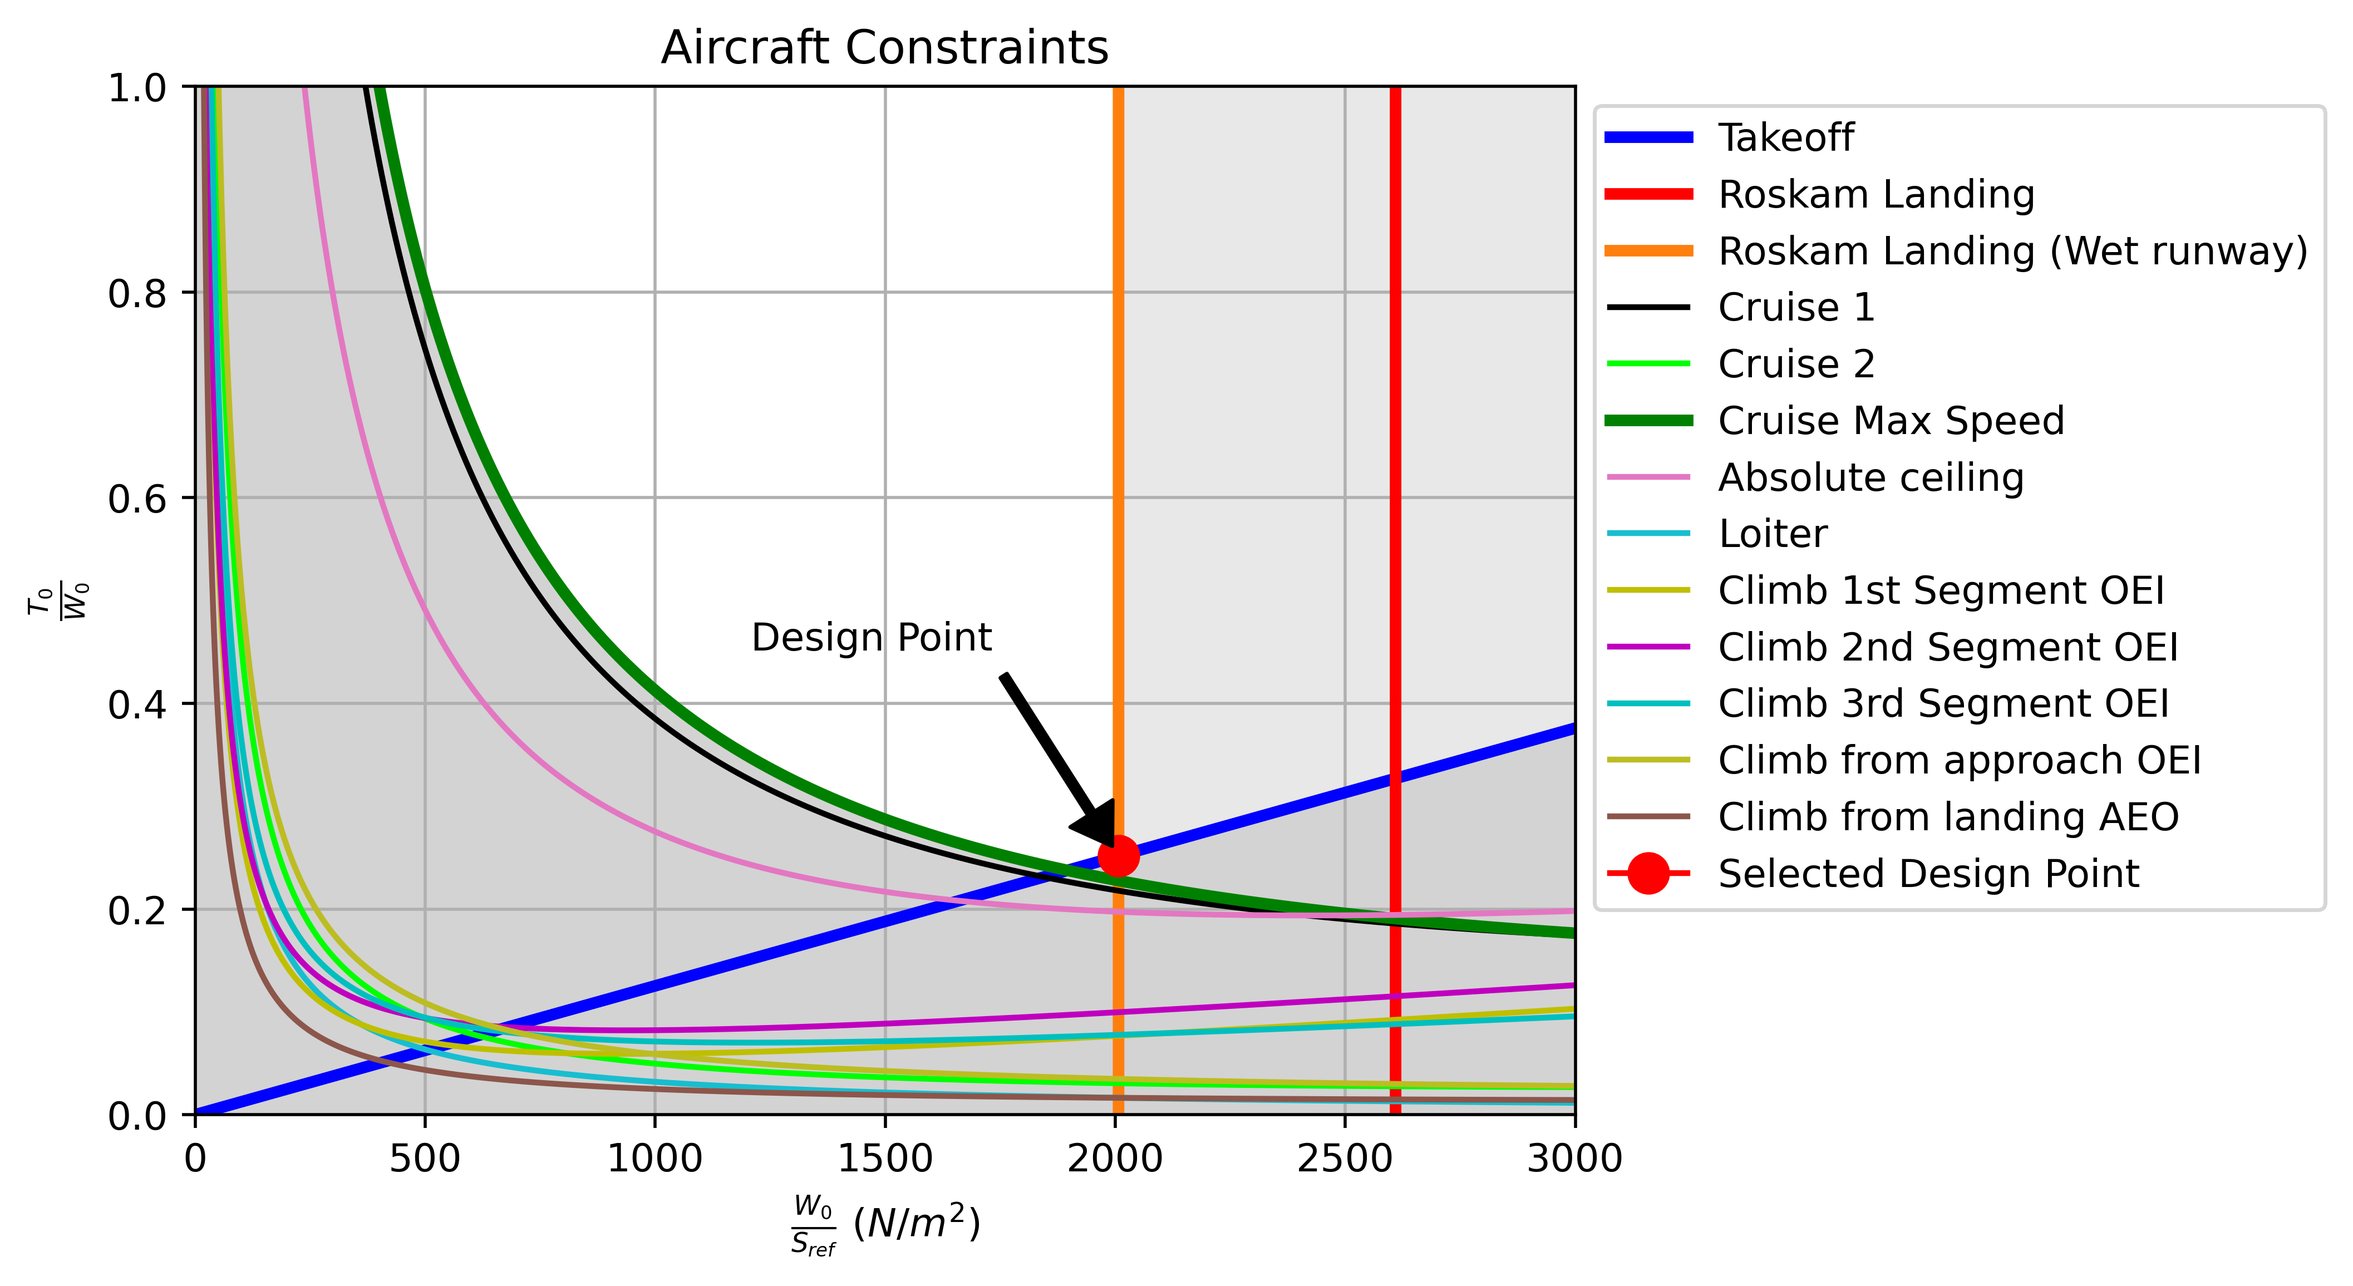
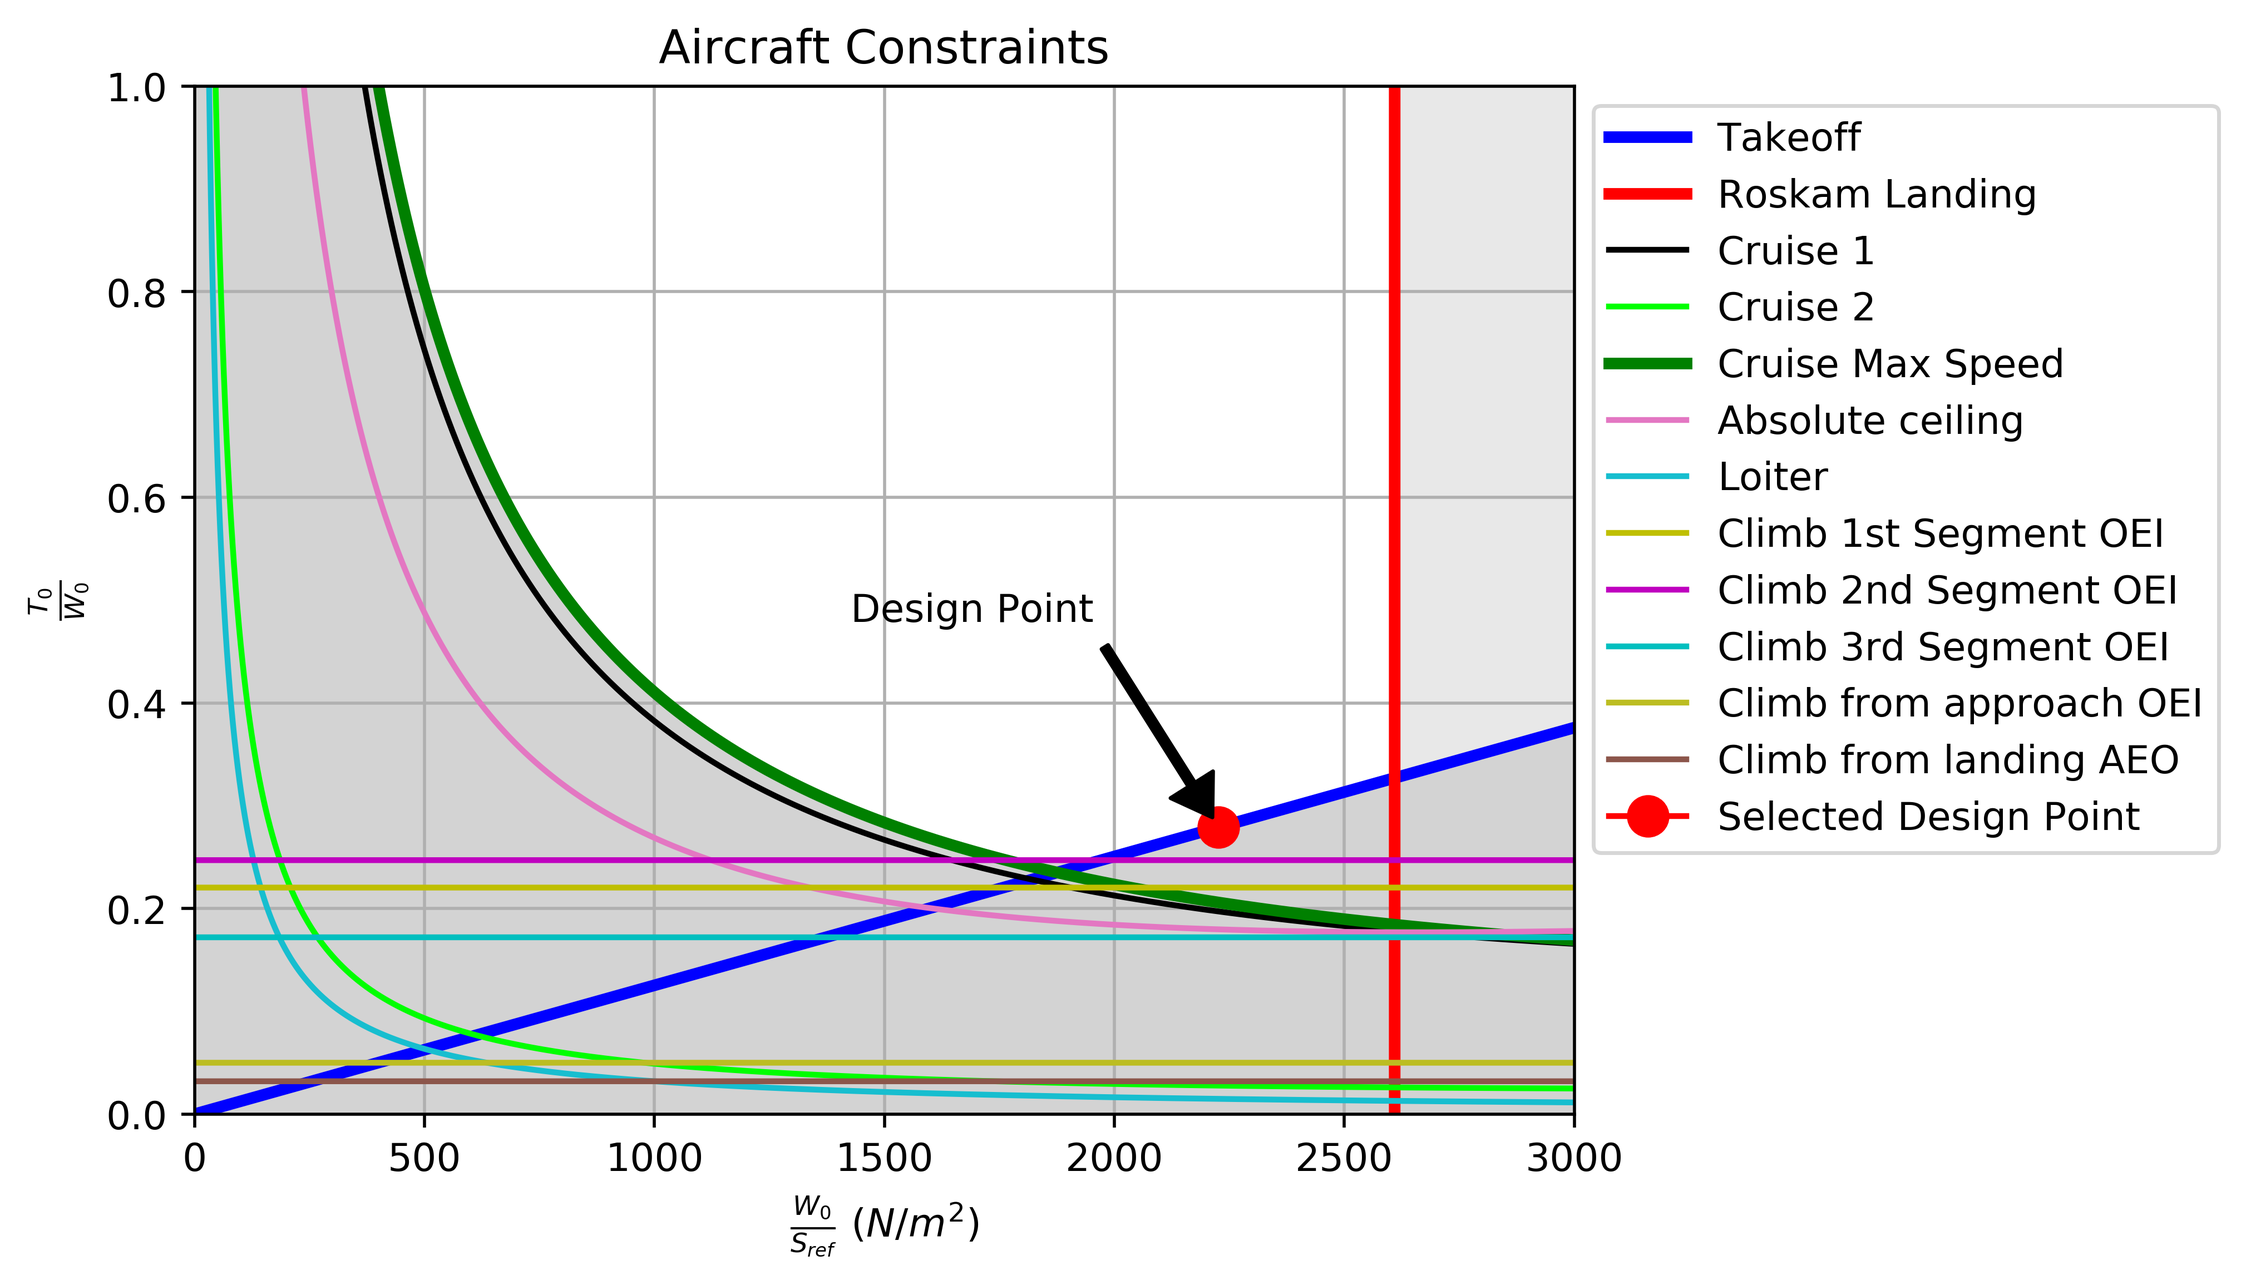
winglets effect + weight piechart + fixed constraint diagram

Changed region(s): [[0.0312, 0.0, 0.9988, 0.9974], [0.9676, 0.6545, 0.9988, 0.6857], [0.3745, 0.2182, 0.4057, 0.2494]]

diff --git a/pyavd/libraries/Classes/Constraints.py b/pyavd/libraries/Classes/Constraints.py
@@ -1,3 +1,4 @@
+from numpy.lib.shape_base import column_stack
 from .. import ureg as u
 from .. import sealevel
 from ..Tools import Optimiser, mach_to_speed
@@ -16,7 +17,7 @@ class Constraints(Config, Optimiser):
     ---> Handles Airworthiness regulations (FAR25 for now) and performance constraints defined in Aircraft.Spec()
     '''
 
-    def __init__(constraint, FieldLength, max_Vstall, Cl_max, Cl_clean):
+    def __init__(constraint, FieldLength, max_Vstall, Cl_max, Cl_clean, dp_factor):
 
         constraint.FL = FieldLength
         constraint.max_Vstall = max_Vstall
@@ -28,13 +29,15 @@ class Constraints(Config, Optimiser):
         # X-axis of constraint graph
         constraint.WS = np.array(np.linspace(1, 3000, 10000)) * u.Pa
 
+        constraint.dp_factor = dp_factor
 
         # Run constraint functions
         constraint.takeoff()
         constraint.landingRaymer(250 * u.meters, 1)
         constraint.landingRoskam()
-        constraint.designPoint()
 
+        constraint.calculate_constraints()
+        constraint.designPoint()
         constraint.plot_constraints()
 
 
@@ -152,26 +155,44 @@ class Constraints(Config, Optimiser):
 
 
 
-
     def designPoint(constraint):
         '''Calculates the design point for the aircraft based on constraints provided'''
+        
+        x2 = constraint.WS[-1].magnitude
+        y2 = constraint.TW_takeoff[-1].magnitude
 
-        x = constraint.WS[-1].magnitude
-        y = constraint.TW_takeoff[-1].magnitude
+        takeoff_slope = y2/x2
+        
+        for index, value in enumerate(constraint.WS):
+            
+            curr_constraints = [constraint.TW_cruise1[index], constraint.TW_cruise2[index],
+                                constraint.TW_cruise_maxSpeed[index], constraint.TW_absCeiling[index],
+                                constraint.TW_climb1[index], constraint.TW_climb2[index],
+                                constraint.TW_climb3[index], constraint.TW_climb4[index],
+                                constraint.TW_climb5[index], constraint.TW_loiter[index]]
 
-        constraint.y_designPoint = y / x * constraint.wingLoadingMax_roskam_wet.magnitude
-        constraint.x_designPoint = constraint.wingLoadingMax_roskam_wet.magnitude
+
+            if ((value.magnitude)*takeoff_slope > max(curr_constraints)):
+                constraint.DP_min_x = value.magnitude
+                constraint.DP_min_y = value.magnitude * takeoff_slope
+                break
+
+        constraint.DP_max_y = takeoff_slope * constraint.wingLoadingMax_roskam.magnitude
+        constraint.DP_max_x = constraint.wingLoadingMax_roskam.magnitude
+
+        constraint.x_designPoint = constraint.DP_min_x + constraint.dp_factor*(constraint.DP_max_x - constraint.DP_min_x) 
+        constraint.y_designPoint = constraint.DP_min_y + constraint.dp_factor*(constraint.DP_max_y - constraint.DP_min_y)
+        
 
 
-    def plot_constraints(constraint):
-
+    def calculate_constraints(constraint):
         WS = constraint.WS
 
         # Cruise
-        TW_cruise1 = constraint.thrustMatching(0 * u.m / u.s, mach_to_speed((40000 * u.ft).to(u.m).magnitude, 0.75), 0.98, 40000 * u.ft)
+        constraint.TW_cruise1 = constraint.thrustMatching(0 * u.m / u.s, mach_to_speed((40000 * u.ft).to(u.m).magnitude, 0.75), 0.98, 40000 * u.ft)
         constraint.TW_cruise_maxSpeed = constraint.thrustMatching(0 * u.m / u.s, mach_to_speed((40000 * u.ft).to(u.m).magnitude, 0.78), 0.94, 40000 * u.ft)
-        TW_absCeiling = constraint.thrustMatching(0 * u.m / u.s, mach_to_speed((45000 * u.ft).to(u.m).magnitude, 0.6), 0.94, 45000 * u.ft)
-        TW_cruise2 = constraint.thrustMatching(0 * u.m / u.s, 200 * u.kts, 0.5, 26000 * u.ft)
+        constraint.TW_absCeiling = constraint.thrustMatching(0 * u.m / u.s, mach_to_speed((45000 * u.ft).to(u.m).magnitude, 0.6), 0.94, 45000 * u.ft)
+        constraint.TW_cruise2 = constraint.thrustMatching(0 * u.m / u.s, 200 * u.kts, 0.5, 26000 * u.ft)
         
         # # Climb
         # TW_climb1 = constraint.climb(0.1, 1.1 * constraint.V_stall, 0.98) * 2.0
@@ -181,42 +202,43 @@ class Constraints(Config, Optimiser):
         # TW_climb5 = constraint.climb(3.2, 1.3 * constraint.V_stall, 0.3)
 
         ## New Climb
-        TW_climb1 = constraint.climb(0.1,1.1 * constraint.V_stall,0.04,0.95) * 2.0
-        TW_climb2 = constraint.climb(2.4, 1.1 * constraint.V_stall,0.02,0.95) * 2.0
-        TW_climb3 = constraint.climb(1.2, 1.25 * constraint.V_stall, 0, 1) * 2.0
-        TW_climb4 = constraint.go_around_climb(2.1, 1.5 * constraint.V_stall,0.05,0.9,0.3) * 2.0
-        TW_climb5 = constraint.go_around_climb(3.2, 1.3 * constraint.V_stall, 0.07,0.9,0.3)
+        constraint.TW_climb1 = constraint.climb(0.1,1.1 * constraint.V_stall,0.04,0.95) * 2.0
+        constraint.TW_climb2 = constraint.climb(2.4, 1.1 * constraint.V_stall,0.02,0.95) * 2.0
+        constraint.TW_climb3 = constraint.climb(1.2, 1.25 * constraint.V_stall, 0, 1) * 2.0
+        constraint.TW_climb4 = constraint.go_around_climb(2.1, 1.5 * constraint.V_stall,0.05,0.9,0.3) * 2.0
+        constraint.TW_climb5 = constraint.go_around_climb(3.2, 1.3 * constraint.V_stall, 0.07,0.9,0.3)
 
         
         # Loiter
-        TW_loiter = constraint.thrustMatching(0 * u.m / u.s, 150 * u.kts, 0.2, 5000 * u.ft)
+        constraint.TW_loiter = constraint.thrustMatching(0 * u.m / u.s, 150 * u.kts, 0.2, 5000 * u.ft)
 
         # Landing
-        TW_line = np.linspace(0, 1, 10000)
-        WS_maxLanding_Raymer = np.array(np.ones(10000)) * constraint.wingLoadingMax_raymer
-        WS_maxLandingRoskam = np.array(np.ones(10000)) * constraint.wingLoadingMax_roskam
-        WS_maxLandingRoskamWet = np.array(np.ones(10000)) * constraint.wingLoadingMax_roskam_wet
+        constraint.TW_line = np.linspace(0, 1, 10000)
+        constraint.WS_maxLanding_Raymer = np.array(np.ones(10000)) * constraint.wingLoadingMax_raymer
+        constraint.WS_maxLandingRoskam = np.array(np.ones(10000)) * constraint.wingLoadingMax_roskam
+        constraint.WS_maxLandingRoskamWet = np.array(np.ones(10000)) * constraint.wingLoadingMax_roskam_wet
 
+
+    def plot_constraints(constraint):
     
-
         constraint.fig_constraint = plt.figure()
 
         # Plot the functions
-        plt.plot(WS, constraint.TW_takeoff, 'b', label='Takeoff', linewidth=3)
-        plt.plot(WS_maxLandingRoskam,TW_line, 'r', label='Roskam Landing', linewidth=3)
-        plt.plot(WS_maxLandingRoskamWet , TW_line, 'tab:orange', label='Roskam Landing (Wet runway)', linewidth=3) #wet runway
-        # plt.plot(WS_maxLanding_Raymer,TW_line, 'r--', label='Raymer Landing', linewidth=0.5)
-        plt.plot(WS,TW_cruise1,'k',label='Cruise 1')
-        plt.plot(WS,TW_cruise2,'lime',label='Cruise 2')
-        plt.plot(WS,constraint.TW_cruise_maxSpeed,'g',label='Cruise Max Speed', linewidth=3)
-        plt.plot(WS,TW_absCeiling,'tab:pink',label='Absolute ceiling')
-        plt.plot(WS,TW_loiter,'tab:cyan',label='Loiter')
+        plt.plot(constraint.WS, constraint.TW_takeoff, 'b', label='Takeoff', linewidth=3)
+        plt.plot(constraint.WS_maxLandingRoskam,constraint.TW_line, 'r', label='Roskam Landing', linewidth=3)
+        #plt.plot(WS_maxLandingRoskamWet , TW_line, 'tab:orange', label='Roskam Landing (Wet runway)', linewidth=3) #wet runway
+        #plt.plot(WS_maxLanding_Raymer,TW_line, 'r--', label='Raymer Landing', linewidth=0.5)
+        plt.plot(constraint.WS,constraint.TW_cruise1,'k',label='Cruise 1')
+        plt.plot(constraint.WS,constraint.TW_cruise2,'lime',label='Cruise 2')
+        plt.plot(constraint.WS,constraint.TW_cruise_maxSpeed,'g',label='Cruise Max Speed', linewidth=3)
+        plt.plot(constraint.WS,constraint.TW_absCeiling,'tab:pink',label='Absolute ceiling')
+        plt.plot(constraint.WS,constraint.TW_loiter,'tab:cyan',label='Loiter')
 
-        plt.plot(WS,TW_climb1,'y',label='Climb 1st Segment OEI')
-        plt.plot(WS,TW_climb2,'m',label='Climb 2nd Segment OEI')
-        plt.plot(WS,TW_climb3,'c',label='Climb 3rd Segment OEI')
-        plt.plot(WS,TW_climb4,'tab:olive',label='Climb from approach OEI')
-        plt.plot(WS,TW_climb5,'tab:brown',label='Climb from landing AEO')
+        plt.plot(constraint.WS,constraint.TW_climb1,'y',label='Climb 1st Segment OEI')
+        plt.plot(constraint.WS,constraint.TW_climb2,'m',label='Climb 2nd Segment OEI')
+        plt.plot(constraint.WS,constraint.TW_climb3,'c',label='Climb 3rd Segment OEI')
+        plt.plot(constraint.WS,constraint.TW_climb4,'tab:olive',label='Climb from approach OEI')
+        plt.plot(constraint.WS,constraint.TW_climb5,'tab:brown',label='Climb from landing AEO')
 
 
         plt.plot(constraint.x_designPoint, constraint.y_designPoint,'r',marker = "o",label='Selected Design Point', markersize=10)
@@ -234,7 +256,15 @@ class Constraints(Config, Optimiser):
         plt.ylim([0, 1])
         plt.xlim([0, 3000])
 
-        plt.fill_between(constraint.WS, constraint.WS * 0, constraint.TW_cruise_maxSpeed, color='lightgrey')
-        plt.fill_between(constraint.WS, constraint.WS * 0, constraint.TW_takeoff, color='lightgrey')
-        plt.fill_between(constraint.WS, WS_maxLandingRoskamWet, 3000 * np.ones(10000), color='lightgrey')
-        plt.axvspan(WS_maxLandingRoskamWet.magnitude[0], 3000, facecolor='lightgrey', alpha=0.5)
+        plt.axvspan(constraint.WS_maxLandingRoskam.magnitude[0], 3000, facecolor='lightgrey', alpha=0.5)
+
+        
+        constraint_list = [constraint.TW_cruise1, constraint.TW_cruise2,
+                            constraint.TW_cruise_maxSpeed, constraint.TW_absCeiling,
+                            constraint.TW_climb1, constraint.TW_climb2,
+                            constraint.TW_climb3, constraint.TW_climb4,
+                            constraint.TW_climb5, constraint.TW_loiter]
+        for const in constraint_list:
+            plt.fill_between(constraint.WS, constraint.WS * 0, const, color='lightgrey')
+
+        plt.fill_between(constraint.WS, constraint.WS * 0, constraint.TW_takeoff , color='lightgrey')

diff --git a/pyavd/main.py b/pyavd/main.py
@@ -29,7 +29,7 @@ import streamlit as st
 from streamlit import session_state as sesh
 import pandas as pd
 import numpy as np
-
+import matplotlib.pyplot as plt
 # Set up the page config
 st.set_page_config(page_title="PyAVD",
                     page_icon="https://ichef.bbci.co.uk/news/976/cpsprodpb/117D1/production/_98633617_mediaitem98633616.jpg",
@@ -96,6 +96,7 @@ with st.sidebar:
     crew = st.number_input("Crew", value=2, min_value=1, max_value=1000)
     sesh.num_iters = st.number_input("Iterations", value=10, min_value=0)
     aspect_ratio = st.number_input("Aspect Ratio", value=7.5, min_value=0.0)
+    winglets_bool = st.checkbox('Winglets?', value=True)
 
   st.header("Design Constraints")
   with st.expander("Click to Expand"):
@@ -107,6 +108,7 @@ with st.sidebar:
 
   st.header("Optimise Design Point")
   with st.expander("Click to Expand", expanded=True):
+    dp_factor = st.number_input("Design Point Percentage", value=0.4)
     st.warning("Still in development!")
     weight = st.slider("Weighting", value=0.0, min_value=0.0, max_value=1.0)
     st.write("Objective Function:")
@@ -122,7 +124,7 @@ if 'flight_profile' not in sesh:
                           ["Descent"],
                           ["Climb"],
                           #["Cruise", {"Speed": 200 * u.kts, "Range": 370.0 * u.km, "Altitude": 26000.0 * u.ft}],
-                          ["Cruise", {"Speed": mach_to_speed((26000 * u.ft).to(u.m).magnitude, 0.5), "Range": 370.0 * u.km, "Altitude": 26000.0 * u.ft}],
+                          ["Cruise", {"Speed": mach_to_speed((26000 * u.ft).to(u.m).magnitude, 0.4), "Range": 370.0 * u.km, "Altitude": 26000.0 * u.ft}],
                           ["Loiter", {"Endurance": 45 * u.min, "Altitude": 5000 * u.ft, "Speed": 150 * u.kts}],
                           ["Descent"],
                           ["Landing"]]
@@ -187,7 +189,7 @@ fp.write(sesh.flight_profile)
 '''
 
 # Creating a new Aircraft instance
-ac = Aircraft(passengers, crew, sesh.flight_profile, aspect_ratio, oswald, field_length, max_Vstall, cl_max, cl_clean, weight, sesh.num_iters)
+ac = Aircraft(passengers, crew, sesh.flight_profile, aspect_ratio, oswald, field_length, max_Vstall, cl_max, cl_clean, weight, dp_factor, winglets_bool, sesh.num_iters)
 
 # Plotting W0 convergence
 st.plotly_chart(ac.fig_W0_histories)
@@ -204,6 +206,21 @@ with st.expander("Fuel Fraction Breakdown"):
   st.dataframe( pd.DataFrame(fuel_frac_2d, index=np.arange(1,len(fuel_frac_2d)+1), columns=['Flight Regime','Fuel Fraction']) )
 
 
+# TODO: use LATEX
+st.write("L/D max = " + str(np.round(ac.LDmax,1)))
+st.write(f"Effective AR = {np.round(ac.aspect_ratio,1)}")
+
+ac_pie_labels = 'Payload', 'Empty', 'Fuel'
+ac_pie_sizes = [(ac.Wcrew.magnitude + ac.Wpax.magnitude + ac.Wpay.magnitude), (ac.W0.magnitude * ac.empty_weight_fraction.magnitude[0]), (ac.W0 * ac.fuel_weight_fraction[0]).magnitude]
+ac_pie_fig, ac_pie_ax = plt.subplots()
+
+ac_pie_ax.pie(ac_pie_sizes, labels=ac_pie_labels, autopct='%1.1f%%', shadow=True, startangle=90)
+ac_pie_ax.axis('equal')
+
+st.pyplot(ac_pie_fig)
+st.write(f"Payload weight fraction = {np.round((1-ac.fuel_weight_fraction - ac.empty_weight_fraction).magnitude,4)[0]}, Empty weight fraction = {np.round(ac.empty_weight_fraction.magnitude,4)[0]}, Fuel weight fraction = {np.round(ac.fuel_weight_fraction.magnitude,4)[0]}")
+st.write(f"Payload weight = {ac.Wcrew.magnitude + ac.Wpax.magnitude + ac.Wpay.magnitude} kg, Empty weight = {np.round(ac.W0.magnitude * ac.empty_weight_fraction.magnitude,2)[0]} kg, Fuel Weight = {np.round(ac.W0 * ac.fuel_weight_fraction.magnitude,2)[0]} kg")
+
 '''
 ## S2 - Constraints
 
@@ -211,3 +228,4 @@ with st.expander("Fuel Fraction Breakdown"):
 
 st.pyplot(ac.fig_constraint, dpi=500)
 ac.fig_constraint.savefig("constraint.png", dpi=500, bbox_inches='tight')
+st.write("Design Point: W/S = " + str(int(np.round(ac.x_designPoint[0]))) + " & T/W = " + str(np.round(ac.y_designPoint[0],2)))

diff --git a/pyavd/libraries/Classes/Aircraft.py b/pyavd/libraries/Classes/Aircraft.py
@@ -22,11 +22,11 @@ class Aircraft(Constraints):
         Redcalculates the gross takeoff weight using Equation S 1.1-3
     '''
 
-    def __init__(ac, pax, crew, mission_profile, AR, e, FieldLength, max_Vstall, Cl_max, Cl_clean, weight, n=10):
+    def __init__(ac, pax, crew, mission_profile, AR, e, FieldLength, max_Vstall, Cl_max, Cl_clean, weight, dp_factor, winglets_bool, n=10):
 
         Spec.__init__(ac, pax, crew, mission_profile)
-        Config.__init__(ac, AR, e)
-        Constraints.__init__(ac, FieldLength, max_Vstall, Cl_max, Cl_clean)
+        Config.__init__(ac, AR, e, winglets_bool)
+        Constraints.__init__(ac, FieldLength, max_Vstall, Cl_max, Cl_clean, dp_factor)
 
         # On first iteration, approximate aircraft W0 from baseline configuration
         Config.W0_approx(ac)
@@ -59,6 +59,8 @@ class Aircraft(Constraints):
             ac.W0 = ac.fixed_weight / (1.0 - ac.WfW0(ac.profile, [ac.SFC_cruise_approx, ac.SFC_loiter_approx], [ac.LD_cruise, ac.LD_loiter]) - ac.WeW0(ac.W0))
             ac.W0_histories.append(ac.W0.magnitude[0])
             
+        
+        ac.empty_weight_fraction = 1 - ac.fuel_weight_fraction - ac.fixed_weight/ac.W0
 
     def plot_histories(ac):
         '''

diff --git a/pyavd/libraries/Classes/Spec.py b/pyavd/libraries/Classes/Spec.py
@@ -36,7 +36,7 @@ class Spec:
     def __init__(spec, pax, crew, mission_profile):
         spec.Wpax = pax * 100 * u.kg
         spec.Wcrew = crew * 100 * u.kg
-        spec.Wpay = pax * 30 * u.kg
+        spec.Wpay = pax * 23 * u.kg
         spec.profile = mission_profile
 
         spec.fixed_weight = spec.Wpax + spec.Wcrew + spec.Wpay
@@ -99,4 +99,5 @@ class Spec:
                 aggregate *= loiter_frac
                 spec.fuel_fracs.append(np.round(loiter_frac.magnitude, 3))
                 
-        return 1.01 * (1 - aggregate)
+        spec.fuel_weight_fraction = 1.01 * (1 - aggregate)
+        return spec.fuel_weight_fraction

diff --git a/pyavd/libraries/Classes/Config.py b/pyavd/libraries/Classes/Config.py
@@ -12,9 +12,14 @@ class Config(Spec, Standards):
     ---> Handles the top-level aircraft configuration, providing empirical lookup tables for required parameters in addition to higher fidelity methods.
     """
 
-    def __init__(config, AR, e):
+    def __init__(config, AR, e, winglets_bool):
 
-        config.aspect_ratio = AR
+        if (winglets_bool):
+            config.aspect_ratio = 1.2 * AR
+        else:
+            config.aspect_ratio = AR
+
+            
         config.e = e
 
         config.W0_approx()
